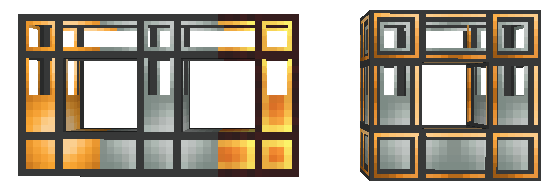
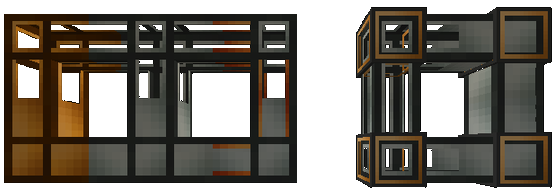
Thermal Dynamics (#5)
* Thermal Dynamics: Added Fluxduxts

All pictures on the page are in game screenshots

* Thermal Foundation: Updated one Gears picture

Added a banner on top of the gears page with all the gears added by CoFH

* Thermal Dynamics: Added Fluiducts, Viaducts, Structuralduct and Covers

diff --git a/docs/thermal-dynamics/ducts/fluiducts/index.html b/docs/thermal-dynamics/ducts/fluiducts/index.html
@@ -1,0 +1,108 @@
+---
+title: Fluiducts
+---
+
+<img src="/assets/images/thermal-dynamics/fluiducts.png" style="height: 128px;" title="Regular, Hardened, Signalum-Plated and Super-Laminar" /> 
+
+<p><strong>Fluiducts</strong> are blocks added by Thermal Dynamics. They transport fluids between tanks and blocks that needs fluids. There are several types of Fluiducts, including ones that can move fluids at faster speeds, or ones that double as <a href="/docs/thermal-dynamics/ducts/fluxducts/">Fluxducts</a>.</p>
+
+<p>Every type of Fluiduct has a transparent version and an opaque version. Opaque Fluiducts do not render any fluids that flow through them.</p>
+
+<h2 id="crafting">Crafting</h2>
+
+<div class="uk-display-inline-block uk-margin-bottom uk-margin-right uk-text-small cofh-vertical-align-top">
+    <strong>Fluiduct (Opaque)</strong><br />
+    <img src="/assets/images/recipes/opaque-fluiduct.png" class="uk-margin-small-top uk-margin-small-bottom" title="Fluiduct (Opaque) recipe" /><br />
+    Shaped Crafting
+    <ul class="uk-margin-remove">
+        <li>2x <a href="/docs/thermal-foundation/metals-and-alloys/copper/">Copper</a> <a href="/docs/thermal-foundation/materials/ingots/">Ingot</a></li>
+        <li><a href="/docs/thermal-foundation/metals-and-alloys/lead/">Lead</a> <a href="/docs/thermal-foundation/materials/ingots/">Ingot</a></li>
+    </ul>
+</div>
+
+<div class="uk-display-inline-block uk-margin-bottom uk-margin-right uk-text-small cofh-vertical-align-top">
+    <strong>Fluiduct</strong><br />
+    <img src="/assets/images/recipes/fluiduct.png" class="uk-margin-small-top uk-margin-small-bottom" title="Fluiduct recipe" /><br />
+    Shaped Crafting
+    <ul class="uk-margin-remove">
+        <li>2x <a href="/docs/thermal-foundation/metals-and-alloys/copper/">Copper</a> <a href="/docs/thermal-foundation/materials/ingots/">Ingot</a></li>
+        <li><a>Glass</a></li>
+    </ul>
+</div>
+
+<br />
+
+<div class="uk-display-inline-block uk-margin-bottom uk-margin-right uk-text-small cofh-vertical-align-top">
+    <strong>Hardened Fluiduct (Opaque)</strong><br />
+    <img src="/assets/images/recipes/opaque-hardened-fluiduct.png" class="uk-margin-small-top uk-margin-small-bottom" title="Hardened Fluiduct (Opaque) recipe" /><br />
+    Shapeless Crafting
+    <ul class="uk-margin-remove">
+        <li>2x <a href="/docs/thermal-foundation/metals-and-alloys/invar/">Invar</a> <a href="/docs/thermal-foundation/materials/ingots/">Ingot</a></li>
+        <li><a href="/docs/thermal-foundation/metals-and-alloys/lead/">Lead</a> <a href="/docs/thermal-foundation/materials/ingots/">Ingot</a></li>
+    </ul>
+</div>
+
+<div class="uk-display-inline-block uk-margin-bottom uk-margin-right uk-text-small cofh-vertical-align-top">
+    <strong>Hardened Fluiduct</strong><br />
+    <img src="/assets/images/recipes/hardened-fluiduct.png" class="uk-margin-small-top uk-margin-small-bottom" title="Hardened Fluiduct recipe" /><br />
+    Shapeless Crafting
+    <ul class="uk-margin-remove">
+        <li>2x <a href="/docs/thermal-foundation/metals-and-alloys/invar/">Invar</a> <a href="/docs/thermal-foundation/materials/ingots/">Ingot</a></li>
+        <li><a href="/docs/thermal-expansion/materials/hardened-glass/">Hardened Glass</a></li>
+    </ul>
+</div>
+
+<br />
+
+<div class="uk-display-inline-block uk-margin-bottom uk-margin-right uk-text-small cofh-vertical-align-top">
+    <strong>Signalum Fluiduct (Opaque)</strong><br />
+    <img src="/assets/images/recipes/opaque-signalum-fluiduct.png" class="uk-margin-small-top uk-margin-small-bottom" title="Signalum Fluiduct (Opaque) recipe" /><br />
+    Shapeless Crafting
+    <ul class="uk-margin-remove">
+        <li>3x <a href="/docs/thermal-dynamics/ducts/fluiducts/">Hardened Fluiduct (Opaque)</a></li>
+        <li><a href="/docs/thermal-foundation/metals-and-alloys/signalum/">Signalum</a> <a href="/docs/thermal-foundation/materials/ingots/">Ingot</a></li>
+        <li><a href="/docs/thermal-foundation/metals-and-alloys/electrum/">Electrum</a> <a href="/docs/thermal-foundation/materials/ingots/">Ingot</a></li>
+    </ul>
+</div>
+
+<div class="uk-display-inline-block uk-margin-bottom uk-margin-right uk-text-small cofh-vertical-align-top">
+    <strong>Signalum Fluiduct</strong><br />
+    <img src="/assets/images/recipes/signalum-fluiduct.png" class="uk-margin-small-top uk-margin-small-bottom" title="Signalum Fluiduct recipe" /><br />
+    Shapeless Crafting
+    <ul class="uk-margin-remove">
+        <li>3x <a href="/docs/thermal-dynamics/ducts/fluiducts/">Hardened Fluiduct</a></li>
+        <li><a href="/docs/thermal-foundation/metals-and-alloys/signalum/">Signalum</a> <a href="/docs/thermal-foundation/materials/ingots/">Ingot</a></li>
+        <li><a href="/docs/thermal-foundation/metals-and-alloys/electrum/">Electrum</a> <a href="/docs/thermal-foundation/materials/ingots/">Ingot</a></li>
+   </ul>
+</div>
+
+<br />
+
+<div class="uk-display-inline-block uk-margin-bottom uk-margin-right uk-text-small cofh-vertical-align-top">
+    <strong>Super-Laminar Fluiduct (Opaque)</strong><br />
+    <img src="/assets/images/recipes/opaque-laminar-fluiduct.png" class="uk-margin-small-bottom" title="Super-Laminar Fluiduct (Opaque) recipe" /><br />
+    <a href="/docs/thermal-expansion/machines/fluid-transposer/">Fluid Transposer</a>
+    <ul class="uk-text-small uk-margin-remove">
+        <li>4x <a href="/docs/thermal-foundation/metals-and-alloys/bronze/">Bronze</a> <a href="/docs/thermal-foundation/materials/ingots/">Ingot</a></li>
+        <li>4x <a href="/docs/thermal-expansion/materials/hardened-glass/">Hardened Glass</a></li>
+        <li><a href="/docs/thermal-dynamics/ducts/fluiducts/">Signalum Fluiduct (Opaque)</a></li>
+    </ul>
+</div>
+
+<div class="uk-display-inline-block uk-margin-bottom uk-margin-right uk-text-small cofh-vertical-align-top">
+    <strong>Super-Laminar Fluiduct</strong><br />
+    <img src="/assets/images/recipes/laminar-fluiduct.png" class="uk-margin-small-bottom" title="Super-Laminar Fluiduct recipe" /><br />
+    <a href="/docs/thermal-expansion/machines/fluid-transposer/">Fluid Transposer</a>
+    <ul class="uk-text-small uk-margin-remove">
+        <li>4x <a href="/docs/thermal-foundation/metals-and-alloys/bronze/">Bronze</a> <a href="/docs/thermal-foundation/materials/ingots/">Ingot</a></li>
+        <li>4x <a href="/docs/thermal-expansion/materials/hardened-glass/">Hardened Glass</a></li>
+        <li><a href="/docs/thermal-dynamics/ducts/fluiducts/">Signalum Fluiduct (Opaque)</a></li>
+    </ul>
+</div>
+
+<br />
+
+<h2 id="operation">Operation</h2>
+<p>When placed, Fluiducts connect to adjacent tanks and other Fluiducts. Networks of Fluiducts are able to transport fluids between tanks if at least one route of connected Fluiducts is available. Fluiduct connections can be closed and reopened by using a <a href="/docs/thermal-expansion/tools/crescent-hammer/">Crescent Hammer</a> on them.</p>
+
+<p><a href="/docs/thermal-dynamics/duct-attachments/servos/">Servos</a> and <a href="/docs/thermal-dynamics/duct-attachments/retrievers/">Retrievers</a> can be used to extract fluids from tanks and run them through a Fluiduct network. Other devices that have explicit support for Fluiducts can also eject fluids into them. All devices in the CoFH mods that can eject fluids have support for Fluiducts.</p>

diff --git a/docs/thermal-dynamics/ducts/viaducts/index.html b/docs/thermal-dynamics/ducts/viaducts/index.html
@@ -1,0 +1,55 @@
+---
+title: Viaducts
+---
+
+<img src="/assets/images/thermal-dynamics/viaducts.png" style="height: 128px;" title="Regular, Long Range, Long Range Linking and Untreated Viaduct" />
+
+
+<p><strong>Viaducts</strong> are blocks added by Thermal Dynamics. They transport players between locations in the world. There are several types of Viaducts.</p>
+
+
+<h2 id="crafting">Crafting</h2>
+
+<div class="uk-display-inline-block uk-margin-bottom uk-margin-right uk-text-small cofh-vertical-align-top">
+    <strong>Viaduct (Untreated)</strong><br />
+    <img src="/assets/images/recipes/untreated-viaduct.png" class="uk-margin-small-top uk-margin-small-bottom" title="Leadstone Fluxduct recipe" /><br />
+    Shaped Crafting
+    <ul class="uk-margin-remove">
+        <li>4x <a href="/docs/thermal-foundation/metals-and-alloys/bronze/">Bronze</a> <a href="/docs/thermal-foundation/materials/ingots/">Ingot</a></li>
+        <li>4x <a href="/docs/thermal-foundation/blocks/hardened-glass/">Hardened Glass</a></li>
+    </ul>
+</div>
+
+<div class="uk-display-inline-block uk-margin-bottom uk-margin-right uk-text-small cofh-vertical-align-top">
+    <strong>Viaduct</strong><br />
+    <img src="/assets/images/recipes/viaduct.png" class="uk-margin-small-top uk-margin-small-bottom" title="Hardened Fluxduct recipe" /><br />
+    Shapeless Crafting
+    <ul class="uk-margin-remove">
+        <li>100 mB <a href="/docs/thermal-foundation/fluids/zephyrean-aerotheum/">Zephyrean Aerotheum</a></li>
+        <li><a href="/docs/thermal-dynamics/ducts/viaducts/">Viaduct (Untreated)</a></li>
+    </ul>
+</div>
+
+<br />
+
+<div class="uk-display-inline-block uk-margin-bottom uk-margin-right uk-text-small cofh-vertical-align-top">
+    <strong>Long Range Viaduct</strong><br />
+    <img src="/assets/images/recipes/long-range-viaduct.png" class="uk-margin-small-top uk-margin-small-bottom" title="Redstone Energy Fluxduct (Empty) recipe" /><br />
+    Shapeless Crafting
+    <ul class="uk-margin-remove">
+        <li>4x <a href="/docs/thermal-foundation/metals-and-alloys/lead/">Lead</a> <a href="/docs/thermal-foundation/materials/ingots/">Ingot</a></li>
+        <li>4x <a href="/docs/thermal-foundation/blocks/hardened-glass/">Hardened Glass</a></li>
+    </ul>
+</div>
+
+<div class="uk-display-inline-block uk-margin-bottom uk-margin-right uk-text-small cofh-vertical-align-top">
+    <strong>Long Range Linking Viaduct</strong><br />
+    <img src="/assets/images/recipes/long-range-linking-viaduct.png" class="uk-margin-small-top uk-margin-small-bottom" title="Redstone Energy Fluxduct recipe" /><br />
+    <a href="/docs/thermal-expansion/machines/fluid-transposer/">Fluid Transposer</a>
+    <ul class="uk-margin-remove">
+        <li>1000 mB <a href="/docs/thermal-foundation/fluids/resonant-ender/">Resonant Ender</a></li>
+        <li><a href="/docs/thermal-dynamics/ducts/viaducts/">Viaduct</a></li>
+    </ul>
+</div>
+
+<br />

diff --git a/docs/thermal-dynamics/ducts/fluxducts/index.html b/docs/thermal-dynamics/ducts/fluxducts/index.html
@@ -5,7 +5,7 @@ title: Fluxducts
 <img src="/assets/images/thermal-dynamics/fluxducts.png" style="height: 128px;" title="Regular, Hardened, Redstone, Signalum, Resonant and Cryo-Stabilized" />
 
 
-<p><strong>Fluxducts</strong> are blocks added by Thermal Dynamics. They transport <a href="/docs/redstone-flux/about/redstone-flux-a-primer/">Redstone Flux</a> between blocks that can store, generate or use RF. There are several types of Fluxducts, they can double as an <a href="/docs/thermal-dynamics/ducts/itemducts/">Itemduct</a>, or a <a href="/docs/thermal-dynamics/ducts/fluidducts/">Fluidduct</a>.</p>
+<p><strong>Fluxducts</strong> are blocks added by Thermal Dynamics. They transport <a href="/docs/redstone-flux/about/redstone-flux-a-primer/">Redstone Flux</a> between blocks that can store, generate or use RF. There are several types of Fluxducts, they can double as an <a href="/docs/thermal-dynamics/ducts/itemducts/">Itemduct</a>, or a <a href="/docs/thermal-dynamics/ducts/fluiducts/">Fluiduct</a>.</p>
 
 
 <p>Every type of Fluxduct has a limit on how much energy it can transport.</p>

diff --git a/docs/thermal-dynamics/attachments/covers/index.html b/docs/thermal-dynamics/attachments/covers/index.html
@@ -1,0 +1,25 @@
+---
+title: Covers
+---
+
+<img src="/assets/images/thermal-dynamics/covers.png" style="height: 128px;" title="Covers on Redstone Energy Fluxducts" />
+
+
+<p><strong>Covers</strong> are blocks added by Thermal Dynamics. They are used to hide various ducts added by <a href="/docs/thermal-dynamics/">Thermal Dynamics</a>.</p>
+
+
+<p>Covers can mostly be made out of all solid blocks present in the game. (Full blocks that doesnt do anything)</p>
+
+<h2 id="crafting">Crafting</h2>
+
+<div class="uk-display-inline-block uk-margin-bottom uk-margin-right uk-text-small cofh-vertical-align-top">
+    <strong>Cover Crafting</strong><br />
+    <img src="/assets/images/recipes/structuralduct-crafting.png" class="uk-margin-small-top uk-margin-small-bottom" title="Cover crafting recipe" /><br />
+    Shapeless Crafting
+    <ul class="uk-margin-remove">
+        <li><a href="/docs/thermal-dynamics/ducts/structuralduct/">Structuralduct</a></li>
+        <li><a>Stone</a></li>
+    </ul>
+</div>
+
+<br />

diff --git a/docs/thermal-foundation/materials/gears/index.html b/docs/thermal-foundation/materials/gears/index.html
@@ -2,7 +2,7 @@
 title: Gears
 ---
 
-{% include materialformicons.html type='gear' %}
+<img src="/assets/images/thermal-foundation/tf-gears.png" class="uk-margin-small-bottom" title="Gears added by the CoFH Mods" /><br />
 
 <p><strong>Gears</strong> are crafting components added by Thermal Foundation. They are commonly used to craft various kinds of devices. Thermal Foundation adds Gear types for all of its base metals and alloys, as well as Iron and Gold.</p>
 

diff --git a/docs/thermal-dynamics/ducts/structuralduct/index.md b/docs/thermal-dynamics/ducts/structuralduct/index.md
@@ -1,0 +1,35 @@
+---
+title: Structuralduct
+---
+
+![Structuralducts](/assets/images/thermal-dynamics/structuralducts.png){:style="height: 128px"}
+
+
+**Structuralduct** is a block added by Thermal Dynamics. They are used to make [Covers](/docs/thermal-dynamics/attachments/covers/).
+
+
+Structuralducts can also be placed in world, and have covers on it.
+
+Crafting
+
+<div class="uk-display-inline-block uk-margin-bottom uk-margin-right uk-text-small cofh-vertical-align-top">
+    <strong>Structuralduct</strong><br />
+    <img src="/assets/images/recipes/structuralduct.png" class="uk-margin-small-top uk-margin-small-bottom" title="Structuralduct recipe" /><br />
+    Shaped Crafting
+    <ul class="uk-margin-remove">
+        <li>2x <a>Iron Nugget</a></li>
+        <li><a href="/docs/thermal-foundation/metals-and-alloys/lead/">Lead</a> <a href="/docs/thermal-foundation/materials/ingots/">Ingot</a></li>
+    </ul>
+</div>
+
+<div class="uk-display-inline-block uk-margin-bottom uk-margin-right uk-text-small cofh-vertical-align-top">
+    <strong>Cover Crafting</strong><br />
+    <img src="/assets/images/recipes/structuralduct-crafting.png" class="uk-margin-small-top uk-margin-small-bottom" title="Cover crafting recipe" /><br />
+    Shapeless Crafting
+    <ul class="uk-margin-remove">
+        <li><a href="/docs/thermal-dynamics/ducts/structuralduct/">Structuralduct</a></li>
+        <li><a>Stone</a></li>
+    </ul>
+</div>
+
+<br />
